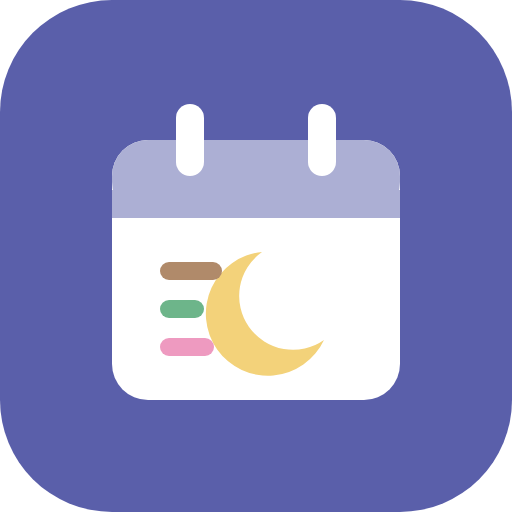
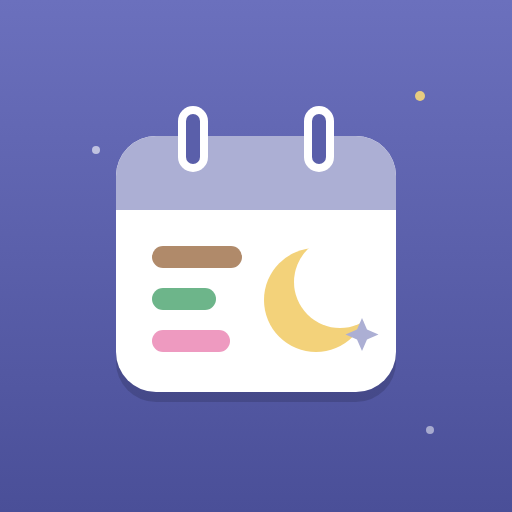
ホーム画面用のアイコンを作り直す（全面背景・丸型の切り抜きに対応）
Claude-Session: https://claude.ai/code/session_01JxY2Tz55mYk2zorH2EP72z

diff --git a/sw.js b/sw.js
@@ -1,6 +1,6 @@
 // アプリの画面をキャッシュして、電波が弱いときも開けるようにする
-var CACHE = 'schedule-book-v2';
-var SHELL = ['./', 'index.html', 'firebase-config.js', 'vendor/htm-preact.js', 'manifest.webmanifest', 'icons/icon.svg', 'icons/icon-192.png'];
+var CACHE = 'schedule-book-v3';
+var SHELL = ['./', 'index.html', 'firebase-config.js', 'vendor/htm-preact.js', 'manifest.webmanifest', 'icons/icon.svg', 'icons/icon-32.png', 'icons/icon-180.png', 'icons/icon-192.png', 'icons/icon-512.png'];
 self.addEventListener('install', function (e) {
   e.waitUntil(caches.open(CACHE).then(function (c) { return c.addAll(SHELL); }).then(function () { return self.skipWaiting(); }));
 });

diff --git a/index.html b/index.html
@@ -9,6 +9,7 @@
 <meta name="apple-mobile-web-app-title" content="スケジュール帳">
 <link rel="manifest" href="manifest.webmanifest">
 <link rel="icon" href="icons/icon.svg" type="image/svg+xml">
+<link rel="icon" href="icons/icon-32.png" sizes="32x32" type="image/png">
 <link rel="apple-touch-icon" href="icons/icon-180.png">
 <link rel="preconnect" href="https://fonts.googleapis.com">
 <link rel="stylesheet" href="https://fonts.googleapis.com/css2?family=Zen+Kaku+Gothic+New:wght@400;500;700&family=IBM+Plex+Mono:wght@500;600&display=swap">
